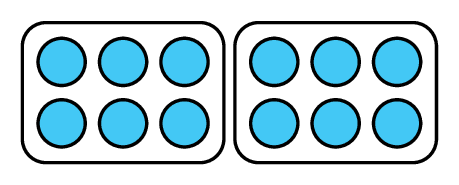
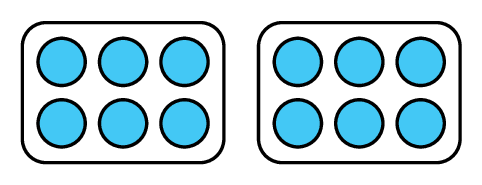
ajuste imagen tikz de gra3-uni4

Changed region(s): [[0.0305, 0.1081, 0.976, 0.8919], [0.061, 0.1081, 0.0915, 0.1622]]

diff --git a/source/assets/tikz-source/tikz-file-149310.tex b/source/assets/tikz-source/tikz-file-149310.tex
@@ -9,6 +9,6 @@
   \end{scope}
 }
 \midDotGroup{3}{2}
-\midDotGroup[shift={(4.5*\midDotSize,0)}]{3}{2}
+\midDotGroup[shift={(5*\midDotSize,0)}]{3}{2}
 \end{tikzpicture}
 \end{document}
